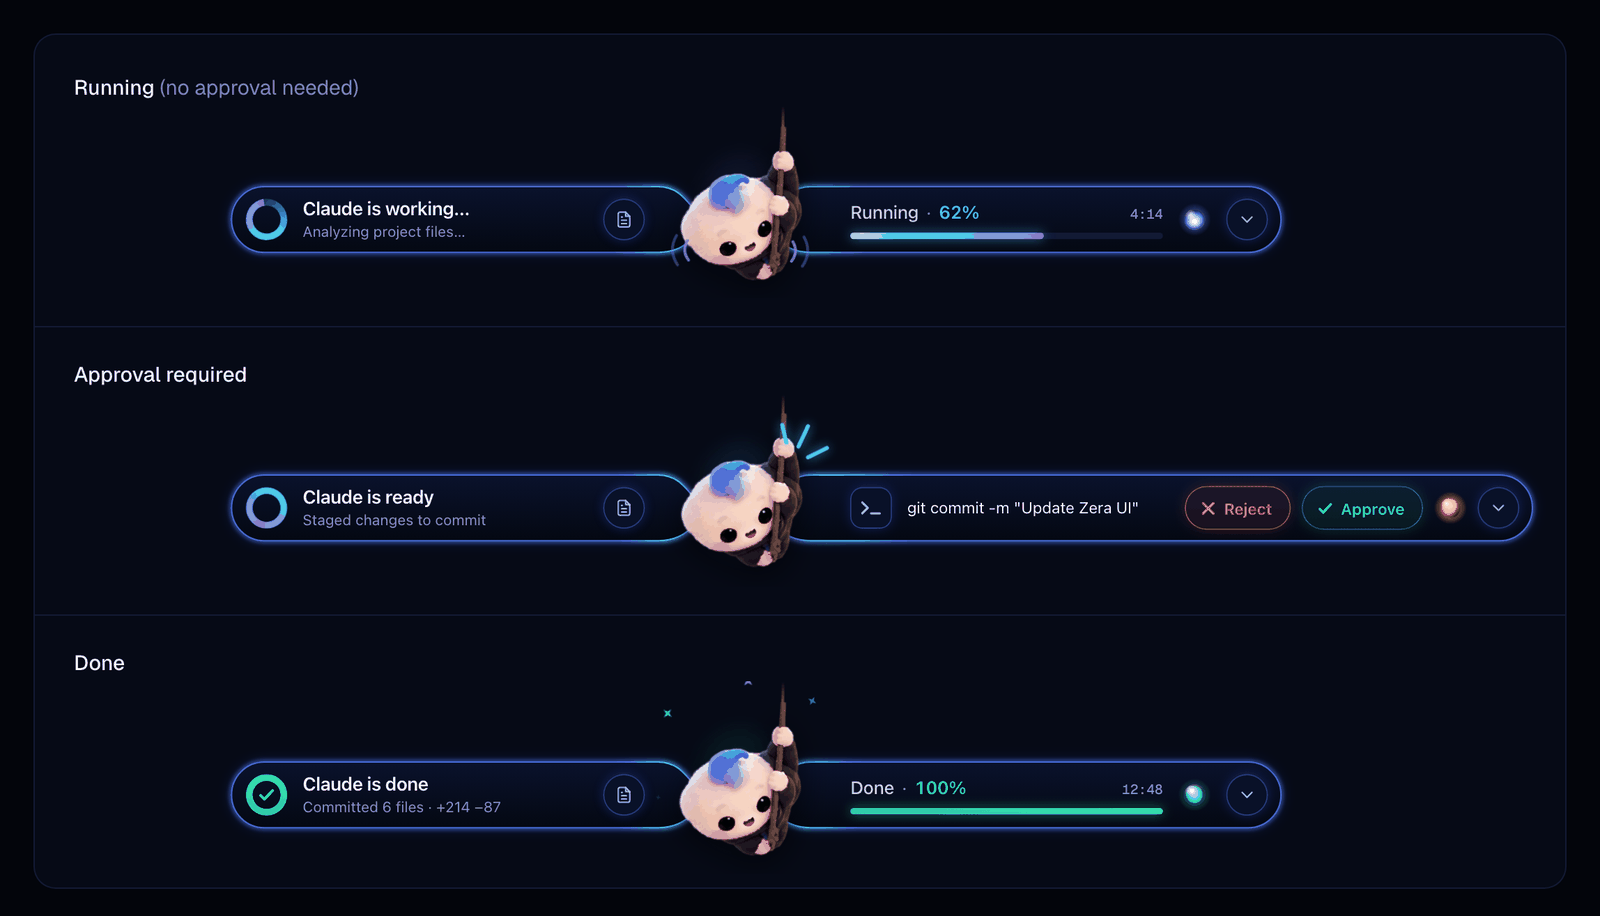
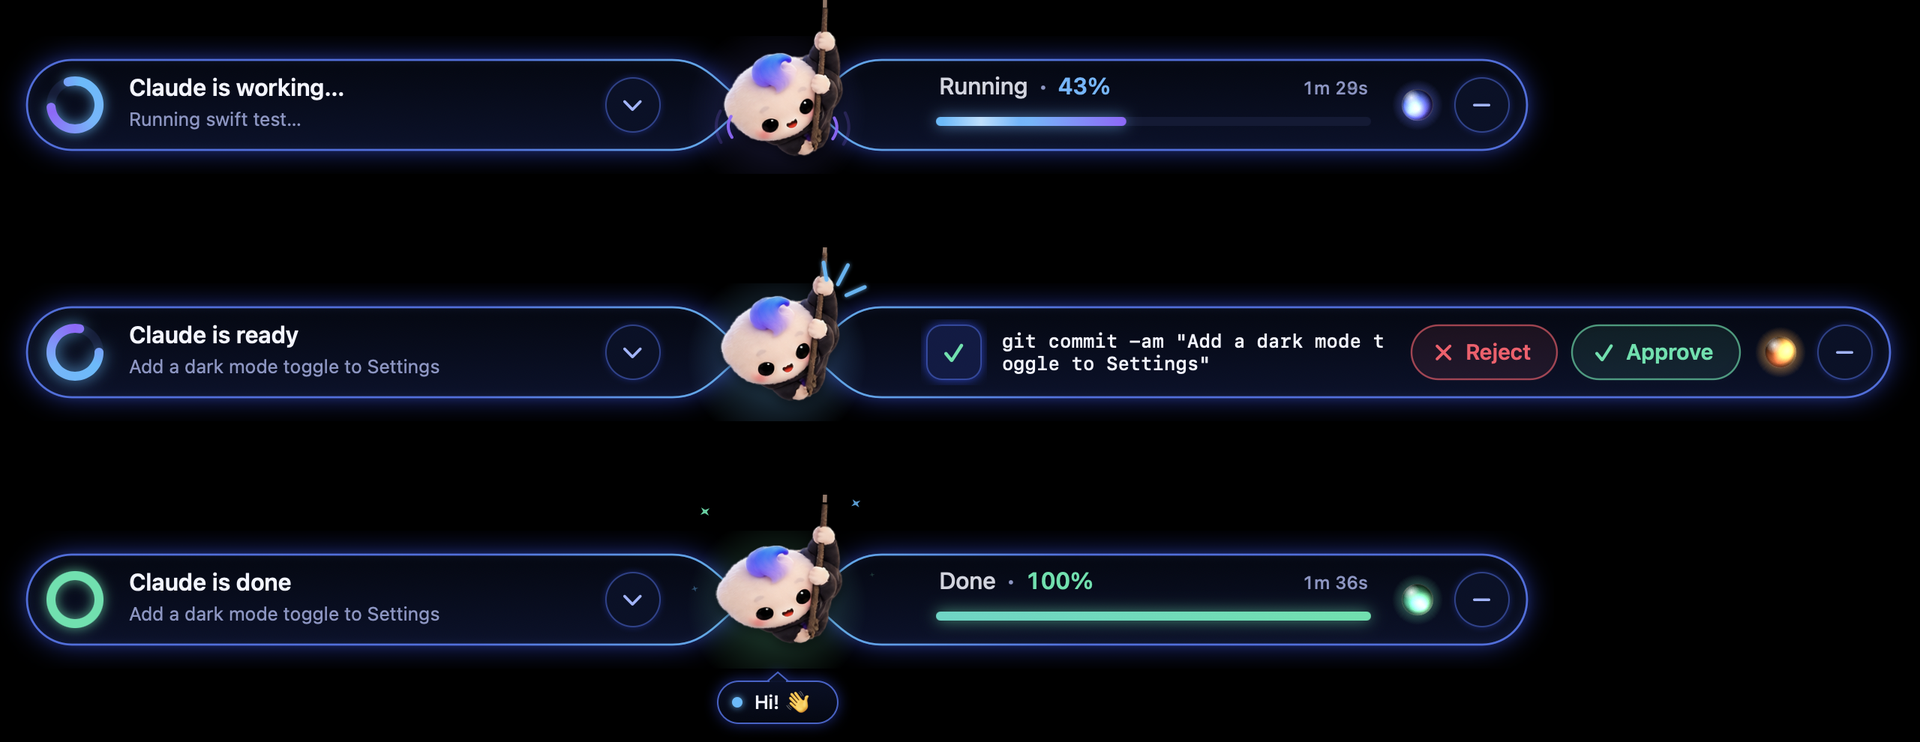
Update documentation and screenshots

Changed region(s): [[0.0, 0.341, 1.0, 0.6199], [0.0, 0.031, 0.8125, 0.31], [0.0, 0.6509, 0.8125, 0.9919]]

diff --git a/README.md b/README.md
@@ -28,8 +28,8 @@ it's doing and let you approve its commands right there. **No API key and no acc
 Claude runs through your existing Claude Code login, and GitHub uses a token you paste once.
 
 <p align="center">
-  <img src="docs/zera-island.gif" alt="Hovering the notch shows the tabs; Home, Claude sessions, a session, the Shelf, pull requests, Today and a reminder banner open out of the notch in turn" width="700"><br>
-  <sub>Every screen opens out of the notch. Rendered from the design mock-up with sample data.</sub>
+  <img src="docs/zera-island.webp" alt="Hovering Zera shows the tabs; Home, Claude sessions, the Shelf, pull requests, Reminders and Settings open out of the notch in turn, then a meeting banner opens its details" width="736"><br>
+  <sub>Every screen opens out of the notch. Recorded from the app with sample data.</sub>
 </p>
 
 ## Download
@@ -54,7 +54,7 @@ big window.
 
 - **Tabs at notch level.** Hover Zera and the notch widens to show six tabs on either side of it:
   **Home · Claude · Files** on the left, **PRs · Reminders · Settings** on the right. An amber dot marks
-  a tab that needs you.
+  a tab that needs you, and the Claude tab counts running sessions.
 - **Opens, morphs, folds away.** Click a tab and the island springs open to that screen's size.
   Switching tabs resizes it in place, sliding the new screen in from the side its tab is on. Click
   outside or press <kbd>esc</kbd> and it folds back into the notch. A screen you open from somewhere
@@ -69,15 +69,15 @@ big window.
   files, thinking over PRs and file answers, smiling at Reminders, swinging in Settings.
 
 <p align="center">
-  <img src="docs/island-screens.png" alt="Home, Claude sessions, a Claude session, the Shelf, a file answer, pull requests, Today, Settings, a reminder banner and the hover tabs, each shown as a compact island under the notch" width="100%"><br>
-  <sub>Every screen, held open. Rendered from the design mock-up with sample data.</sub>
+  <img src="docs/island-screens.png" alt="The hover tabs with a caption under Zera, Home, Claude sessions, the Shelf, pull requests, Reminders, Settings → Sounds, a meeting banner and an event's details, each a compact island under the notch" width="100%"><br>
+  <sub>Every screen, held open. Recorded from the app with sample data.</sub>
 </p>
 
 ## Live wings
 
 <p align="center">
-  <img src="docs/zera-wings.gif" alt="The live wings while Claude works, then asking to run git commit with Reject and Approve, then done" width="900"><br>
-  <sub>Running → approval → done. Rendered from the design mock-up with sample data.</sub>
+  <img src="docs/zera-wings.webp" alt="The live wings while Claude works, then asking to run git commit with Reject and Approve, the command copied, approved, then done" width="960"><br>
+  <sub>Running → approval → copy → approve → done. Recorded from the app with sample data.</sub>
 </p>
 
 While a Claude Code session is active, two glass wings hang off Zera on either side of her rope.
@@ -87,14 +87,15 @@ While a Claude Code session is active, two glass wings hang off Zera on either s
 - **Right wing:** **Running · 62%** with a progress bar and the session time, and a status orb that
   swirls blue-violet while Claude works, amber while it waits on you and green when it's done.
 - **Approvals right on the wing.** When Claude Code would ask you for permission, the right wing
-  springs wider to show the command (up to two lines of it) with **Reject** and **Approve**.
-- Click a wing or its chevron to open the session; right-click to hide the wings until Claude has
-  something new.
+  springs wider to show the command (up to two lines of it) with **Reject** and **Approve**. Click
+  the `>_` (or the command) to copy the whole command.
+- **⌄** on the left wing opens the session; the wing body itself doesn't react to clicks. **–** (or a
+  right-click) minimizes the wings; they stay away until you open the Claude tab.
 - **Zera acts it out.** She hugs her rope, breathes and swings while Claude works; perks up with burst
   lines when a command needs you; hops among sparkles when Claude is done. Hover her for a wiggle, tap
   her for a bounce.
 
-<p align="center"><img src="docs/wings-states.png" alt="The wings in three states: running at 62%, asking to run git commit, and done at 100%" width="100%"></p>
+<p align="center"><img src="docs/wings-states.png" alt="The wings in three states: running at 43%, asking to run git commit with the command just copied, and done at 100% with a caption under Zera" width="100%"></p>
 
 ## Features
 
@@ -156,7 +157,8 @@ nothing goes to Claude until you ask.
 - One recurrence engine drives the list, the details and the scheduler: "every 2 hours, 9 AM → 9 PM"
   fires at 9, 11, 1, 3, 5, 7 and 9, every day.
 - A banner drops from the notch when one is due, with **Done** and **Snooze** (15 min · 30 min ·
-  1 hour · 2 hours · Tomorrow). States: upcoming, due, overdue, snoozed, done, off.
+  1 hour · 2 hours · Tomorrow); meetings get **Join call**. Tap the banner itself to open the
+  reminder's or event's details. States: upcoming, due, overdue, snoozed, done, off.
 - Completed items can be **restored** or deleted. Everything survives a restart.
 - Events you create are kept by Zera on this Mac, or, if you pick one of your calendars, added to it
   through macOS Calendar. Zera never labels its own events as Google, Outlook or Apple.
@@ -165,10 +167,11 @@ nothing goes to Claude until you ask.
 
 | | |
 | --- | --- |
-| **At the notch** | Hangs on a rope, sways toward your pointer, says hi, dozes off when you're away. Drag her along the top edge. A ripple shows when she's tappable. |
+| **At the notch** | Hangs on a rope, sways toward your pointer, says hi, dozes off when you're away. Drag her along the top edge. Tap her and she swings on her rope. Her lines appear in a small tag under her feet (or in the open island's header), never over the menu bar or the wings. |
+| **Sounds** | 32 short cues generated for Zera: boops when you tap her, glass for the island, bells and droplets for reminders, a sparkle when Claude finishes. One at a time and quiet. **Settings → Sounds** has a main switch, volume and a switch per group (GitHub starts off). |
 | **Home** | A greeting, **Ask Zera**, up to three things that need you (approvals, reminders, PRs, meetings) and one row of quick actions. |
 | **Break nudges** | Optional "time for a break?" every 30 min – 2 hours, only while you're at the keyboard. |
-| **Settings** | General · Integrations · Shortcuts · About. Diagnostics for the Claude CLI. Honours Reduce Motion: no sway, no springs. |
+| **Settings** | General · Sounds · Integrations · Shortcuts · About. Diagnostics for the Claude CLI. Honours Reduce Motion: no sway, no springs. |
 
 ## Setup
 
@@ -265,8 +268,9 @@ and no dependencies.
 | `Sources/Zera/ReminderModels.swift`, `ReminderService.swift` | Events, reminders, the recurrence engine, scheduler, macOS Calendar |
 | `Sources/Zera/Cards.swift`, `ResultCard.swift` | Home, Settings, approvals, banners, file answers |
 | `Sources/Zera/Palette.swift`, `Theme.swift` | Design tokens, the selected look and shared controls |
+| `Sources/Zera/SoundService.swift`, `Resources/Sounds`, `scripts/synth_sounds.py` | Sound cues: the player and settings, the WAVs, and the script that generates them |
 | `Resources/Sprites` | Her poses (60+ cut-outs; AI-assisted artwork, see `Resources/CARD_SPRITE_PROMPT.md`) |
-| `docs/` | README images (renders of the design mock-ups) and the privacy and network notes |
+| `docs/` | README images (recorded from the app with sample data) and the privacy and network notes |
 | `Tests/ZeraTests` | XCTest suite |
 | `.github/workflows`, `scripts/package.sh` | CI and releases |
 

diff --git a/docs/SCREENSHOT_PROMPTS.md b/docs/SCREENSHOT_PROMPTS.md
@@ -1,8 +1,8 @@
 # README images — generation prompts (clean versions)
 
 > **Superseded for screens.** These prompts made the earlier illustrated screens. Since the notch
-> island redesign, the README shows renders of the design mock-ups (`docs/zera-island.gif`,
-> `docs/zera-wings.gif`, `docs/island-screens.png`, `docs/wings-states.png`). The banner prompt still applies.
+> island redesign, the README shows recordings of the app with sample data (`docs/zera-island.webp`,
+> `docs/zera-wings.webp`, `docs/island-screens.png`, `docs/wings-states.png`). The banner prompt still applies.
 
 Prompts to recreate the six README images **without** the problems the old ones had:
 no personal identifiers, no real people, no company logos (Apple, GitHub, Anthropic/Claude, React,
